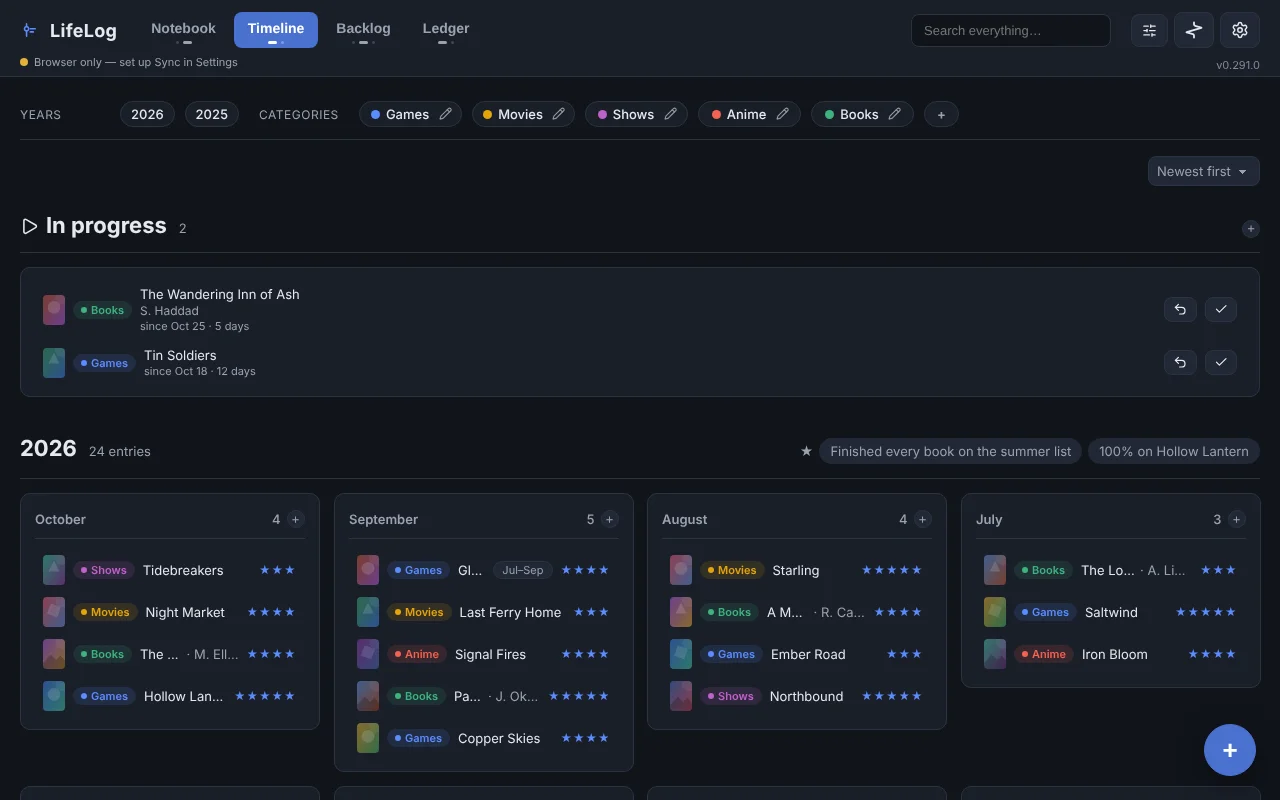
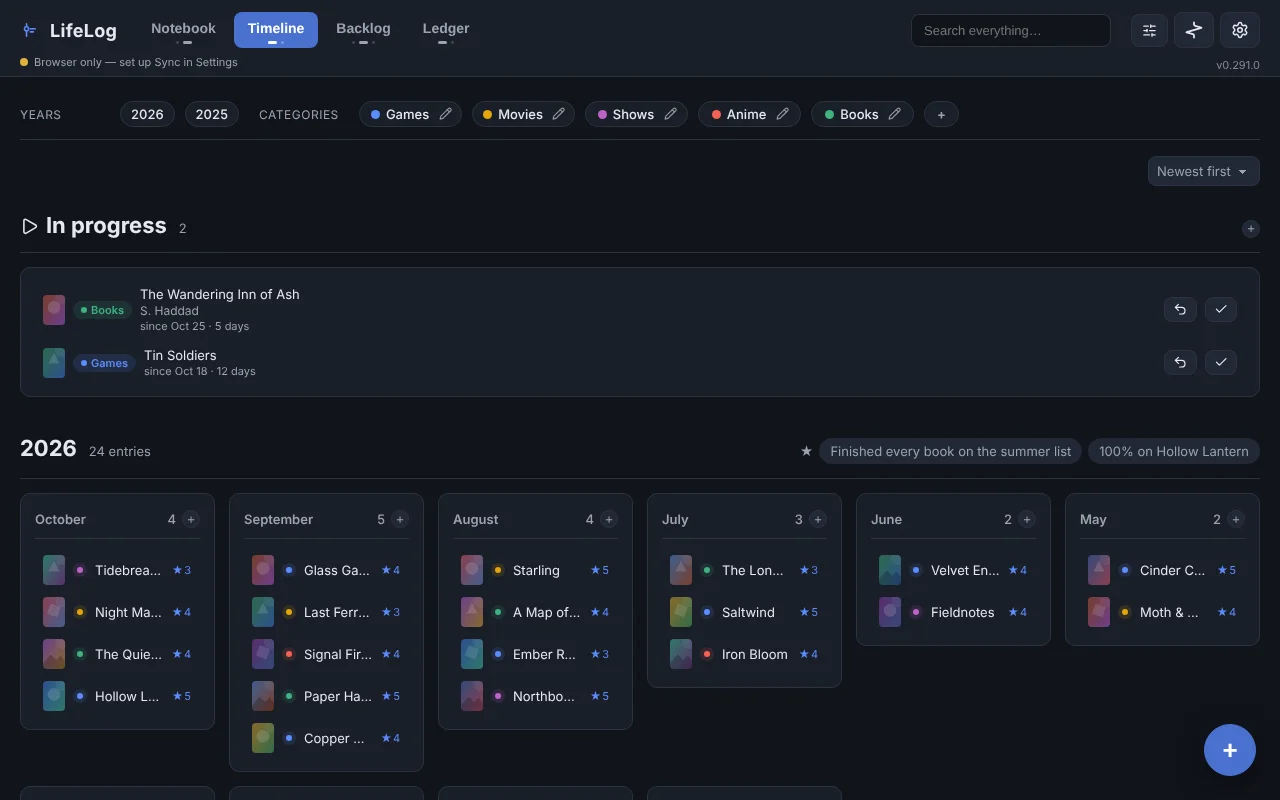
0.291.1: titles keep the row in a narrow month card
At the default month width on a computer, a Timeline row's category chip
and stars squeezed the title to a letter. In a card 280px or narrower the
chip is its dot, the rating ★4, and the span chip and author give way.

Claude-Session: https://claude.ai/code/session_01CFeKrikjzA1uSTBQBvciSF

diff --git a/index.html b/index.html
@@ -5,7 +5,7 @@
   <meta http-equiv="Content-Security-Policy" content="default-src 'self'; script-src 'self'; style-src 'self'; img-src 'self' data: blob: https:; connect-src 'self' https: http://localhost:* http://127.0.0.1:*; font-src 'self'; object-src 'none'; frame-src 'none'; base-uri 'self'; form-action 'self'; manifest-src 'self'; worker-src 'self'" />
   <meta name="viewport" content="width=device-width, initial-scale=1.0" />
   <title>LifeLog</title>
-  <link rel="stylesheet" href="src/styles.css?v=0.291.0" />
+  <link rel="stylesheet" href="src/styles.css?v=0.291.1" />
   <link rel="manifest" href="manifest.json" />
   <meta name="theme-color" content="#11141a" />
   <link rel="icon" href="icon.svg" type="image/svg+xml" />
@@ -2283,38 +2283,38 @@
     </div>
   </div>
 
-  <script defer src="src/errlog.js?v=0.291.0"></script>
-  <script defer src="src/headless.js?v=0.291.0"></script>
-  <script defer src="src/platform.js?v=0.291.0"></script>
-  <script defer src="src/icons.js?v=0.291.0"></script>
-  <script defer src="src/jobs.js?v=0.291.0"></script>
-  <script defer src="src/reconcile.js?v=0.291.0"></script>
-  <script defer src="src/qr.js?v=0.291.0"></script>
-  <script defer src="src/media.js?v=0.291.0"></script>
-  <script defer src="src/merge.js?v=0.291.0"></script>
-  <script defer src="src/storage.js?v=0.291.0"></script>
-  <script defer src="src/finance.js?v=0.291.0"></script>
-  <script defer src="src/settings.js?v=0.291.0"></script>
-  <script defer src="src/wheel.js?v=0.291.0"></script>
-  <script defer src="src/backlog.js?v=0.291.0"></script>
-  <script defer src="src/journal.js?v=0.291.0"></script>
-  <script defer src="src/markdown.js?v=0.291.0"></script>
-  <script defer src="src/notes.js?v=0.291.0"></script>
-  <script defer src="src/docimport.js?v=0.291.0"></script>
-  <script defer src="src/io.js?v=0.291.0"></script>
-  <script defer src="src/sync.js?v=0.291.0"></script>
-  <script defer src="src/habits.js?v=0.291.0"></script>
-  <script defer src="src/vendor/rough.js?v=0.291.0"></script>
-  <script defer src="src/boards.js?v=0.291.0"></script>
-  <script defer src="src/travel.js?v=0.291.0"></script>
-  <script defer src="src/recap.js?v=0.291.0"></script>
-  <script defer src="src/reminders.js?v=0.291.0"></script>
-  <script defer src="src/alerts.js?v=0.291.0"></script>
-  <script defer src="src/widgets.js?v=0.291.0"></script>
-  <script defer src="src/share.js?v=0.291.0"></script>
-  <script defer src="src/search.js?v=0.291.0"></script>
-  <script defer src="src/letterboxd.js?v=0.291.0"></script>
-  <script defer src="src/payments.js?v=0.291.0"></script>
-  <script defer src="src/app.js?v=0.291.0"></script>
+  <script defer src="src/errlog.js?v=0.291.1"></script>
+  <script defer src="src/headless.js?v=0.291.1"></script>
+  <script defer src="src/platform.js?v=0.291.1"></script>
+  <script defer src="src/icons.js?v=0.291.1"></script>
+  <script defer src="src/jobs.js?v=0.291.1"></script>
+  <script defer src="src/reconcile.js?v=0.291.1"></script>
+  <script defer src="src/qr.js?v=0.291.1"></script>
+  <script defer src="src/media.js?v=0.291.1"></script>
+  <script defer src="src/merge.js?v=0.291.1"></script>
+  <script defer src="src/storage.js?v=0.291.1"></script>
+  <script defer src="src/finance.js?v=0.291.1"></script>
+  <script defer src="src/settings.js?v=0.291.1"></script>
+  <script defer src="src/wheel.js?v=0.291.1"></script>
+  <script defer src="src/backlog.js?v=0.291.1"></script>
+  <script defer src="src/journal.js?v=0.291.1"></script>
+  <script defer src="src/markdown.js?v=0.291.1"></script>
+  <script defer src="src/notes.js?v=0.291.1"></script>
+  <script defer src="src/docimport.js?v=0.291.1"></script>
+  <script defer src="src/io.js?v=0.291.1"></script>
+  <script defer src="src/sync.js?v=0.291.1"></script>
+  <script defer src="src/habits.js?v=0.291.1"></script>
+  <script defer src="src/vendor/rough.js?v=0.291.1"></script>
+  <script defer src="src/boards.js?v=0.291.1"></script>
+  <script defer src="src/travel.js?v=0.291.1"></script>
+  <script defer src="src/recap.js?v=0.291.1"></script>
+  <script defer src="src/reminders.js?v=0.291.1"></script>
+  <script defer src="src/alerts.js?v=0.291.1"></script>
+  <script defer src="src/widgets.js?v=0.291.1"></script>
+  <script defer src="src/share.js?v=0.291.1"></script>
+  <script defer src="src/search.js?v=0.291.1"></script>
+  <script defer src="src/letterboxd.js?v=0.291.1"></script>
+  <script defer src="src/payments.js?v=0.291.1"></script>
+  <script defer src="src/app.js?v=0.291.1"></script>
 </body>
 </html>

diff --git a/src/styles.css b/src/styles.css
@@ -1271,6 +1271,18 @@ select:focus { outline: none; border-color: var(--accent); }
 .entry .etitle { flex: 1; overflow: hidden; text-overflow: ellipsis; white-space: nowrap; }
 .entry .ecat { font-size: var(--fs-2xs); color: var(--text-dim); }
 .entry .erating { font-size: var(--fs-2xs); color: var(--accent); letter-spacing: 1px; }
+.erating-short { display: none; }
+/* A narrow month card (the default 180px column on a computer) gave a row's
+   cover, category chip and five stars all the room and the title a letter.
+   There the chip draws as its dot (the name is its tooltip), the stars as
+   "★4", and the span chip and a book's author step aside (the sheet has
+   both), so the title keeps the row. */
+.month-grid > .month-card { container-type: inline-size; }
+@container (max-width: 280px) {
+  .month-card .entry:not(.finance-entry) .entry-cat { font-size: 0; gap: 0; padding: var(--space-4); }
+  .month-card .entry:not(.finance-entry) .erating-full, .month-card .entry:not(.finance-entry) .espan, .month-card .entry:not(.finance-entry) .eauthor { display: none; }
+  .month-card .entry:not(.finance-entry) .erating-short { display: inline; }
+}
 /* Multi-month span chip (e.g. "Jun–Aug") — a quiet, faint pill so it reads as
    metadata, next to but not competing with the category chip and rating. */
 .entry .espan {

diff --git a/src/journal.js b/src/journal.js
@@ -336,6 +336,7 @@
     dot.style.background = color;
     chip.appendChild(dot);
     chip.appendChild(document.createTextNode(e.category));
+    chip.title = e.category;
     row.appendChild(chip);
     row.appendChild(titleWithAuthor("etitle", e));
     const sp = spanLabel(e);
@@ -447,7 +448,9 @@
   }
 
   function ratingBadge(rating) {
-    const span = el("span", "erating", "★".repeat(rating));
+    // Both drawings: a narrow month card shows "★4" instead (styles.css).
+    const span = el("span", "erating");
+    span.append(el("span", "erating-full", "★".repeat(rating)), el("span", "erating-short", "★" + rating));
     span.title = rating + "/5";
     return span;
   }

diff --git a/src/app.js b/src/app.js
@@ -164,7 +164,7 @@
   // hideWidgets keeps notes and to-dos out of the widgets while locked.
   const DEFAULT_PRIVACY = { enabled: false, pinHash: null, pinSalt: null, pinKdf: null, credentialId: null, graceMinutes: 0, lastUnlockAt: 0,
     relockMinutes: 5, fails: 0, lockedUntil: 0, bioOnOpen: true, privacyScreen: false, hideWidgets: false };
-  const APP_VERSION = "0.291.0"; // bump with each shipped change so it's visible in Settings
+  const APP_VERSION = "0.291.1"; // bump with each shipped change so it's visible in Settings
 
   const CATEGORY_PALETTE = ["#e23b3b", "#e2723b", "#e2b23b", "#9fe23b", "#3be25a", "#3bb2e2", "#5b8cff", "#723be2", "#b23be2", "#e23b72", "#7a8a99"];
 

diff --git a/tools/readme-shots.js b/tools/readme-shots.js
@@ -323,7 +323,7 @@ async function main() {
         await page.evaluate(({ data, ui, visual }) => {
           localStorage.setItem("lifelog-cache-v1", JSON.stringify(data));
           localStorage.setItem("lifelog-ui-v1", JSON.stringify(ui));
-          localStorage.setItem("lifelog-visual-settings-v1", JSON.stringify({ outTodaySheet: "hide", monthMinWidth: 260, ...visual }));
+          localStorage.setItem("lifelog-visual-settings-v1", JSON.stringify({ outTodaySheet: "hide", ...visual }));
         }, { data, ui: shot.ui, visual: shot.visual || {} });
         await page.reload({ waitUntil: "networkidle" });
         await page.waitForTimeout(700);

diff --git a/sw.js b/sw.js
@@ -12,7 +12,7 @@
 // touched — intercepting those and falling back to index.html on failure
 // previously turned a real network/CORS error into a fake 200 OK full of HTML,
 // masking the actual failure from the app's own error handling.
-const CACHE = "lifelog-v242";
+const CACHE = "lifelog-v243";
 // Note: lifelog.json is intentionally NOT precached — it isn't deployed (your
 // data is private). The app fetches it at runtime with a graceful fallback.
 const ASSETS = [

diff --git a/NOTES.md b/NOTES.md
@@ -16,6 +16,16 @@ what was decided against and why.
 
 ---
 
+- **Narrow month cards (0.291.1).** Found while taking the README's shots:
+  at the default 180px month width on a 1280px screen, a Timeline row's
+  cover, category chip and five stars left the title 6px. Daniel said fix
+  it. A container query on `.month-grid > .month-card` (≤ 280px) draws the
+  chip as its dot, the stars as "★4" (ratingBadge renders both, CSS picks)
+  and hides the span chip and a book's author, which the sheet still shows.
+  The Ledger's rows are left out: their chip carries the subcategory and
+  they have no stars, so they never had the problem. Not by viewport width,
+  because the card's width depends on Settings → month width too.
+
 - **The README's screenshots (2026-10-30, no release).** Daniel asked for
   the README to show every section on a computer and a phone, and to stay
   current. `tools/readme-shots.js` takes them from made-up demo data dated
@@ -27,9 +37,7 @@ what was decided against and why.
   history; for the same reason the rule is to re-take only the sections a
   release changed. On a phone the shot starts below the chips (scrolled
   under the sticky bar), since they fill half the screen otherwise. The
-  demo device sets the month width to 260px: at the default 180px a month
-  card with a category chip and stars squeezes the title to a letter on a
-  1280px screen. The Android and iOS workflows ignore `docs/**` and the
+  Android and iOS workflows ignore `docs/**` and the
   script, so a new shot doesn't rebuild the apps.
 
 - **The Timeline calendar (0.291.0).** Daniel asked for one; a preview

diff --git a/CHANGELOG.md b/CHANGELOG.md
@@ -4,6 +4,15 @@ All notable changes to LifeLog are documented here. The version number
 always matches `APP_VERSION` in `src/app.js`, shown as "LifeLog vX.Y.Z" at
 the bottom of Settings.
 
+## [0.291.1] - 2026-10-30
+
+### Fixed
+- **Titles in narrow month cards.** On a computer, a Timeline row with a
+  category and a rating could squeeze its title down to one letter. In a
+  narrow month the category now shows as its dot (hover for the name), the
+  rating as ★4, and a book's author and the months-spanned chip give way,
+  so the title gets the row.
+
 ## [0.291.0] - 2026-10-30
 
 ### Added
